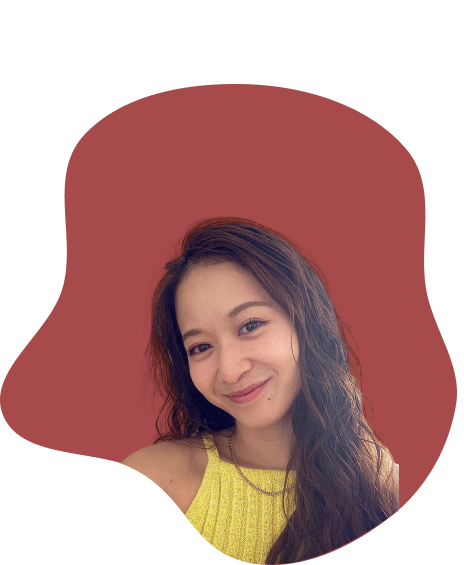
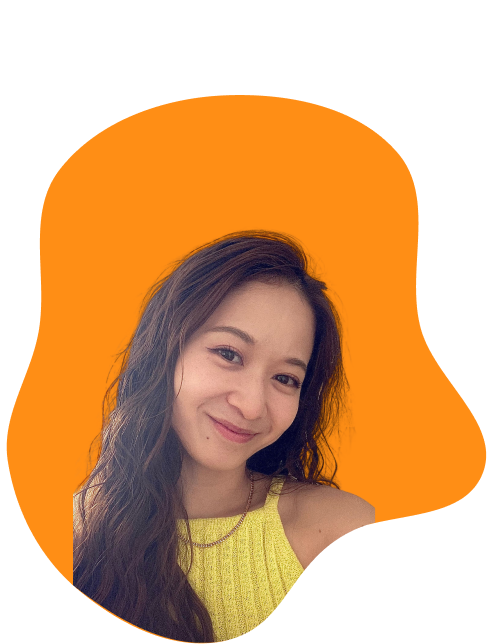
Changed the design, so changed layout

diff --git a/src/components/Dashboard/dashboard.jsx b/src/components/Dashboard/dashboard.jsx
@@ -2,7 +2,7 @@ import { useState } from 'react';
 import './dashboard.css';
 import { FontAwesomeIcon } from '@fortawesome/react-fontawesome';
 //import { faSun } from '@fortawesome/free-solid-svg-icons';
-import { faSun, faMoon } from '@fortawesome/free-solid-svg-icons';
+import { faSun, faMoon, faArrowDown } from '@fortawesome/free-solid-svg-icons';
 const Dashboard = () => {
   const [isOpen, setIsOpen] = useState(false);
   const toggleHamburger = () => {
@@ -10,8 +10,20 @@ const Dashboard = () => {
   };
   return (
     <div>
-      <nav className='nav-bar'>
-        <a href='#body'>Yui Jensen</a>
+      <div className='relative'>
+        <img
+          src='../src/assets/small-design-up.png'
+          alt=''
+          className='absolute w-28
+          '
+        />
+      </div>
+      <nav className='nav-bar  '>
+        <img
+          src='../src/assets/logo-yui.png'
+          alt='logo'
+          className='pl-10 z-10 w-28'
+        />
         <ul className={`nav-menu ${isOpen ? 'active' : ''}`}>
           <li className='nav-item'>
             <a href='' className='nav-link'>
@@ -48,25 +60,26 @@ const Dashboard = () => {
         </div>
       </nav>
 
-      <header>
-        <div className='header-container'>
-          <h5>Front End Developer</h5>
-          <h1>Hello, my name is Yui Jensen</h1>
-          <p>
-            I am a junior Front End developer with studying experience UX Design
-            and Back End Development. I am keen to learn new things
-          </p>
-
-          <div className='btn-container'>
-            <button className='cv-btn'>CV</button>
-            <button className='linedIn-btn'>LinkedIn</button>
+      <header className=' mt-20 pt-10 '>
+        <div className='flex flex-col items-center justify-center w-full max-m-1'>
+          <h1 className='text-3xl'>
+            Hello, my name is{' '}
+            <strong className='text-[#FE6A00]'>Yui Jensen</strong>
+          </h1>
+          <div className='flex flex-col mt-20 mb-20'>
+            <a href='' className='mb-10'>
+              Scroll Down
+            </a>
+            <FontAwesomeIcon icon={faArrowDown} style={{ color: '#4D4415' }} />
           </div>
         </div>
-        <img
-          className='profile'
-          src='/portfolio/src/assets/image1.png'
-          alt=''
-        />
+        <div className=' relative flex flex-start-end'>
+          <img
+            className=' absolute w-28'
+            src='../src/assets/small-design-down.png'
+            alt=''
+          />
+        </div>
       </header>
     </div>
   );

diff --git a/src/components/Dashboard/dashboard.css b/src/components/Dashboard/dashboard.css
@@ -57,7 +57,7 @@ a {
   transition: 0.2s ease;
 }
 .nav-link:hover {
-  color: #a64a4b;
+  color: #fe6a00;
 }
 .hamburger {
   cursor: pointer;
@@ -71,7 +71,7 @@ a {
   height: 3px;
   margin: 5px auto;
   transition: all 0.3s ease-in-out;
-  background-color: #a64a4b;
+  background-color: #fe6a00;
 }
 .hamburger.active .bar:nth-child(2) {
   opacity: 0;

diff --git a/src/index.css b/src/index.css
@@ -7,5 +7,6 @@ body {
   padding: 0;
   box-sizing: border-box;
   font-family: 'Roboto', sans-serif;
-  background-color: #fcfcfc;
+  background-color: #fffadb;
+  color: #4d4415;
 }
